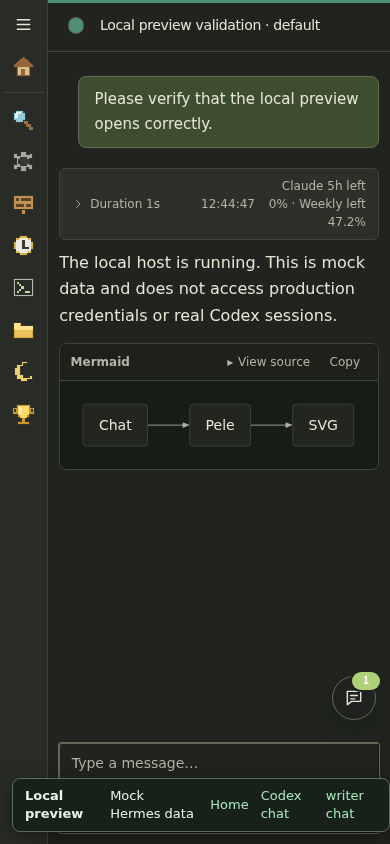
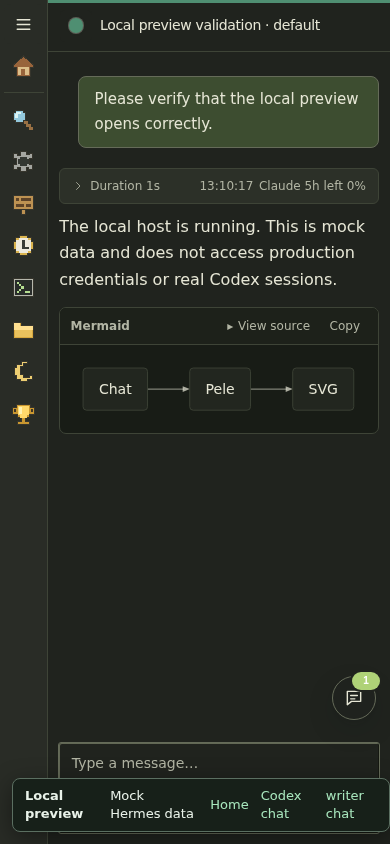
Keep subscription allowance to a single line favoring five-hour window

diff --git a/dashboard/src/process-summary.ts b/dashboard/src/process-summary.ts
@@ -18,14 +18,20 @@ export function ProcessSummary({ React, timing }: { React: ReactHost; timing: Pr
   const h = React.createElement;
   const completed = timing.completedAt === undefined ? null : new Date(timing.completedAt);
   const quota = timing.quota;
-  const quotaParts: string[] = [];
-  if (quota?.fiveHourRemaining !== undefined) quotaParts.push(uiText(`5h 剩余 ${quota.fiveHourRemaining}%`, `5h left ${quota.fiveHourRemaining}%`));
-  if (quota?.weeklyRemaining !== undefined) quotaParts.push(uiText(`周剩余 ${quota.weeklyRemaining}%`, `Weekly left ${quota.weeklyRemaining}%`));
+  let quotaPart: string | undefined;
+  if (quota?.fiveHourRemaining !== undefined) {
+    quotaPart = uiText(`5h 剩余 ${quota.fiveHourRemaining}%`, `5h left ${quota.fiveHourRemaining}%`);
+  } else if (quota?.weeklyRemaining !== undefined) {
+    quotaPart = uiText(`周剩余 ${quota.weeklyRemaining}%`, `Weekly left ${quota.weeklyRemaining}%`);
+  }
   const quotaText = quota
-    ? quotaParts.length ? `${quota.label} ${quotaParts.join(' · ')}` : uiText('额度 —', 'Allowance —')
+    ? quotaPart ? `${quota.label} ${quotaPart}` : uiText('额度 —', 'Allowance —')
     : timing.weeklyRemainingPercent === undefined ? null : uiText(`周剩余 ${timing.weeklyRemainingPercent}%`, `Weekly left ${timing.weeklyRemainingPercent}%`);
+  const fullDetails: string[] = [];
+  if (quota?.fiveHourRemaining !== undefined) fullDetails.push(uiText(`5h 剩余 ${quota.fiveHourRemaining}%`, `5h left ${quota.fiveHourRemaining}%`));
+  if (quota?.weeklyRemaining !== undefined) fullDetails.push(uiText(`周剩余 ${quota.weeklyRemaining}%`, `Weekly left ${quota.weeklyRemaining}%`));
   const quotaTitle = quota
-    ? uiText(`回答完成时的 ${quota.label} 订阅额度剩余比例`, `${quota.label} subscription allowance remaining when this response completed`)
+    ? (fullDetails.length ? `${quota.label} ${fullDetails.join(' · ')}` : uiText(`回答完成时的 ${quota.label} 订阅额度剩余比例`, `${quota.label} subscription allowance remaining when this response completed`))
     : uiText('回答完成时的 Codex 订阅周额度剩余比例', 'Codex weekly allowance remaining when this response completed');
   return h('span', { className: 'codex-process-summary' },
     h('span', { 'data-testid': 'codex-tool-duration' }, duration === undefined ? uiText('耗时未知', 'Unknown duration') : uiText(`耗时 ${formatProcessedDuration(duration)}`, `Duration ${formatProcessedDuration(duration)}`)),

diff --git a/tests/process-summary.test.ts b/tests/process-summary.test.ts
@@ -30,10 +30,17 @@ function byClass(node: unknown, className: string): unknown[] {
 }
 
 describe('response allowance summary', () => {
-  it('shows the selected Google family five-hour and weekly windows', () => {
+  it('prefers the five-hour allowance when available to keep the summary on one line', () => {
     const tree = render({ running: false, duration: 1000, completedAt: 1800000000000,
       quota: { kind: 'google', label: 'Claude', subscription: true, fiveHourRemaining: 0, weeklyRemaining: 47.2 } });
-    expect(text(tree).join(' ')).toContain('Claude 5h left 0% · Weekly left 47.2%');
+    expect(text(tree).join(' ')).toContain('Claude 5h left 0%');
+    expect(text(tree).join(' ')).not.toContain('Weekly left');
+  });
+
+  it('falls back to the weekly window when no five-hour window exists', () => {
+    const tree = render({ running: false, duration: 1000, completedAt: 1800000000000,
+      quota: { kind: 'google', label: 'Claude', subscription: true, weeklyRemaining: 47.2 } });
+    expect(text(tree).join(' ')).toContain('Claude Weekly left 47.2%');
   });
 
   it('does not show an allowance for a direct API model', () => {

diff --git a/dashboard/src/recovered-runtime.css b/dashboard/src/recovered-runtime.css
@@ -10584,9 +10584,9 @@ html.dark .hti-rich-text {
 .hti-tree-other > details > summary:focus-visible { outline: 2px solid var(--mc-accent, #078791); }
 .hti-tree-other > details > .hti-tree-children { margin-left: 0; }
 
-.codex-process-summary { display: grid; grid-template-columns: 1fr auto 1fr; align-items: center; gap: .65rem; flex: 1; min-width: 0; font-variant-numeric: tabular-nums; }
+.codex-process-summary { display: grid; grid-template-columns: 1fr auto 1fr; align-items: center; gap: .65rem; flex: 1; min-width: 0; font-variant-numeric: tabular-nums; white-space: nowrap; }
 .codex-response-time { justify-self: center; }
-.codex-weekly-quota { justify-self: end; text-align: right; }
+.codex-weekly-quota { justify-self: end; text-align: right; white-space: nowrap; }
 @media (max-width: 520px) { .codex-process-summary { gap: .35rem; font-size: .75rem; } }
 
 /* Session accent colours: one store feeds Codex pane headers and session cards. */
